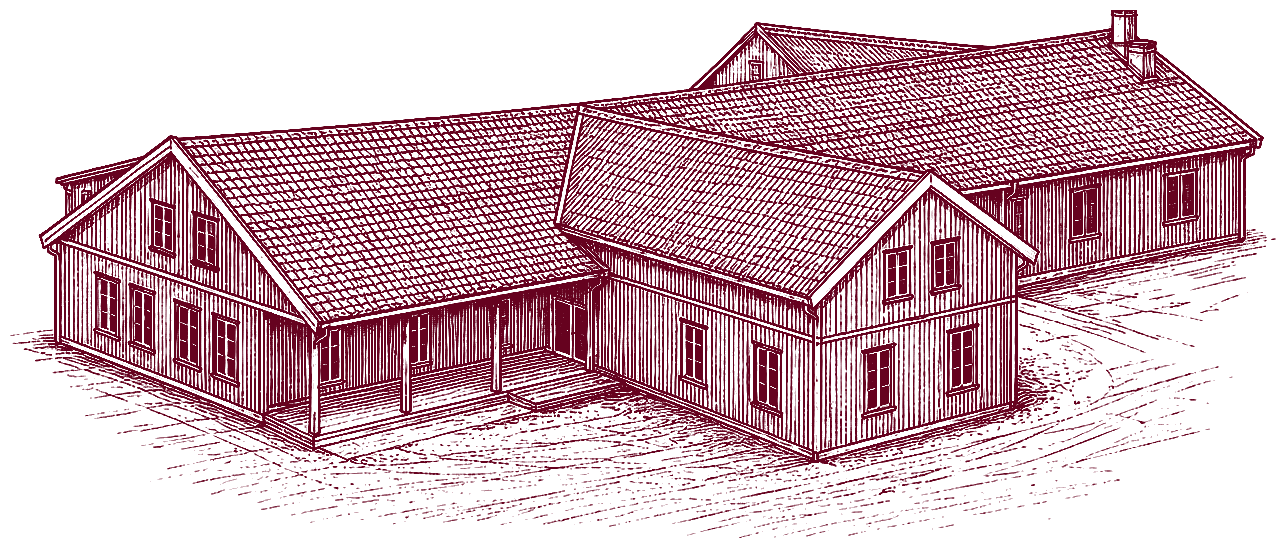
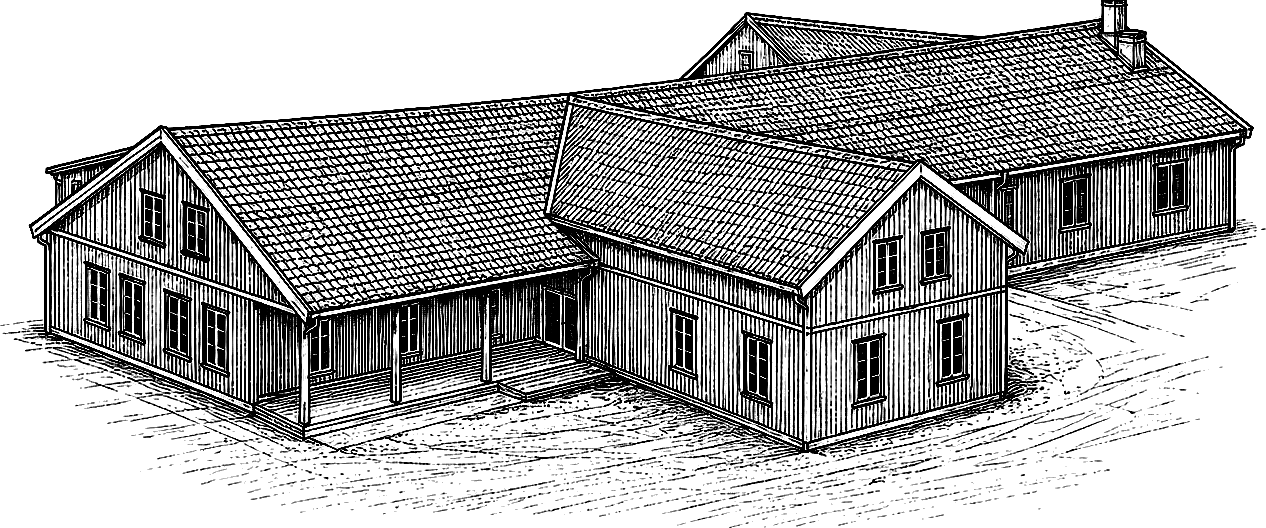
fix: match Tilda template5 location layout for Hove illustration
Use black line art on cream and overlay venue name and address on
the drawing, like the Viktor & Paula location block.

diff --git a/jasmin-ashraaf-bryllup/index.html b/jasmin-ashraaf-bryllup/index.html
@@ -133,13 +133,19 @@ button,input,textarea,select{font:inherit;max-width:100%}
 .tl-item.rose .tl-dot{display:none}
 .tl-rose{width:28px;height:28px;margin:0 auto;object-fit:contain}
 
-.venue-name{font-size:1.2rem;margin:.2rem 0 .4rem}
-.venue-art{
-  margin:1.2rem auto 0;width:min(100%, 26rem);padding:0 .25rem;line-height:0;
+.venue-scene{
+  position:relative;width:min(100%, 28.125rem);margin:1rem auto 0;
 }
-.venue-art img{
-  width:100%;height:auto;display:block;opacity:.94;
-  filter:drop-shadow(0 10px 22px rgba(102,2,31,.08));
+.venue-scene__art{width:100%;height:auto;display:block}
+.venue-scene__copy{
+  position:absolute;left:50%;top:11%;transform:translateX(-50%);
+  width:min(88%, 17.25rem);text-align:center;color:#000;pointer-events:none;
+}
+.venue-scene__name{
+  font-family:var(--serif);font-size:1.25rem;line-height:1.35;margin:0;font-weight:400;
+}
+.venue-scene__address{
+  font-family:var(--serif);font-size:1.05rem;line-height:1.55;margin:.4rem 0 0;
 }
 .venue-img{margin:1.6rem auto 0;width:min(100%,320px);filter:none}
 .photo-slot{
@@ -239,6 +245,11 @@ form.rsvp.open{display:block}
   .reveal,#cover{transition:none}
   .reveal{opacity:1;transform:none}
 }
+@media (max-width: 430px){
+  .venue-scene__copy{top:9%}
+  .venue-scene__name{font-size:1.12rem}
+  .venue-scene__address{font-size:.98rem}
+}
 </style>
 </head>
 <body class="locked">
@@ -319,11 +330,13 @@ form.rsvp.open{display:block}
   <section class="band cream" id="place">
     <img class="torn-top" src="https://static.tildacdn.net/tild3832-6561-4131-b539-313934396635/Mask_group_2_1_Trace.svg" alt="">
     <h2 class="s-title reveal">Location</h2>
-    <p class="venue-name">Hove</p>
-    <p class="s-body">Hoveveien 110a<br>4818 Færvik · Arendal</p>
-    <figure class="venue-art reveal">
-      <img src="img/lokale-bygning.png" alt="Hove — tegning av lokalet" loading="lazy" width="1286" height="548">
-    </figure>
+    <div class="venue-scene reveal">
+      <img class="venue-scene__art" src="img/lokale-bygning.png" alt="" loading="lazy" width="1266" height="528">
+      <div class="venue-scene__copy">
+        <p class="venue-scene__name">Hove</p>
+        <p class="venue-scene__address">Hoveveien 110a<br>4818 Færvik · Arendal</p>
+      </div>
+    </div>
     <a class="venue-btn" href="https://www.google.com/maps/dir/?api=1&destination=Hoveveien+110a+4818+F%C3%A6rvik" target="_blank" rel="noopener">Åpne veibeskrivelse</a>
     <img class="torn-bot" src="https://static.tildacdn.net/tild3832-6561-4131-b539-313934396635/Mask_group_2_1_Trace.svg" alt="">
   </section>

diff --git a/jasmin-ashraaf-bryllup/README.md b/jasmin-ashraaf-bryllup/README.md
@@ -38,7 +38,7 @@ Legg filene i `img/` med nøyaktig disse navnene:
 | Fil | Brukes til |
 |---|---|
 | `img/paret.jpg` | Bilde av paret (dress code + bunn). Original: `IMG_0422.jpeg` |
-| `img/lokale-bygning.png` | Tegning av Hove (Location). Klippet fra `53AB3932-83F1-400E-9D21-C6C9EF5784C7.png` |
+| `img/lokale-bygning.png` | Hove-tegning (Location), svarte streker som i Tilda template5 |
 | `img/lokale-2.jpg` | Ekstra bilde av lokalet (dress code) |
 
 Til rammene vises en tom plassholder til filen er lagt inn. Blomsterdekoren fra malen beholdes.
